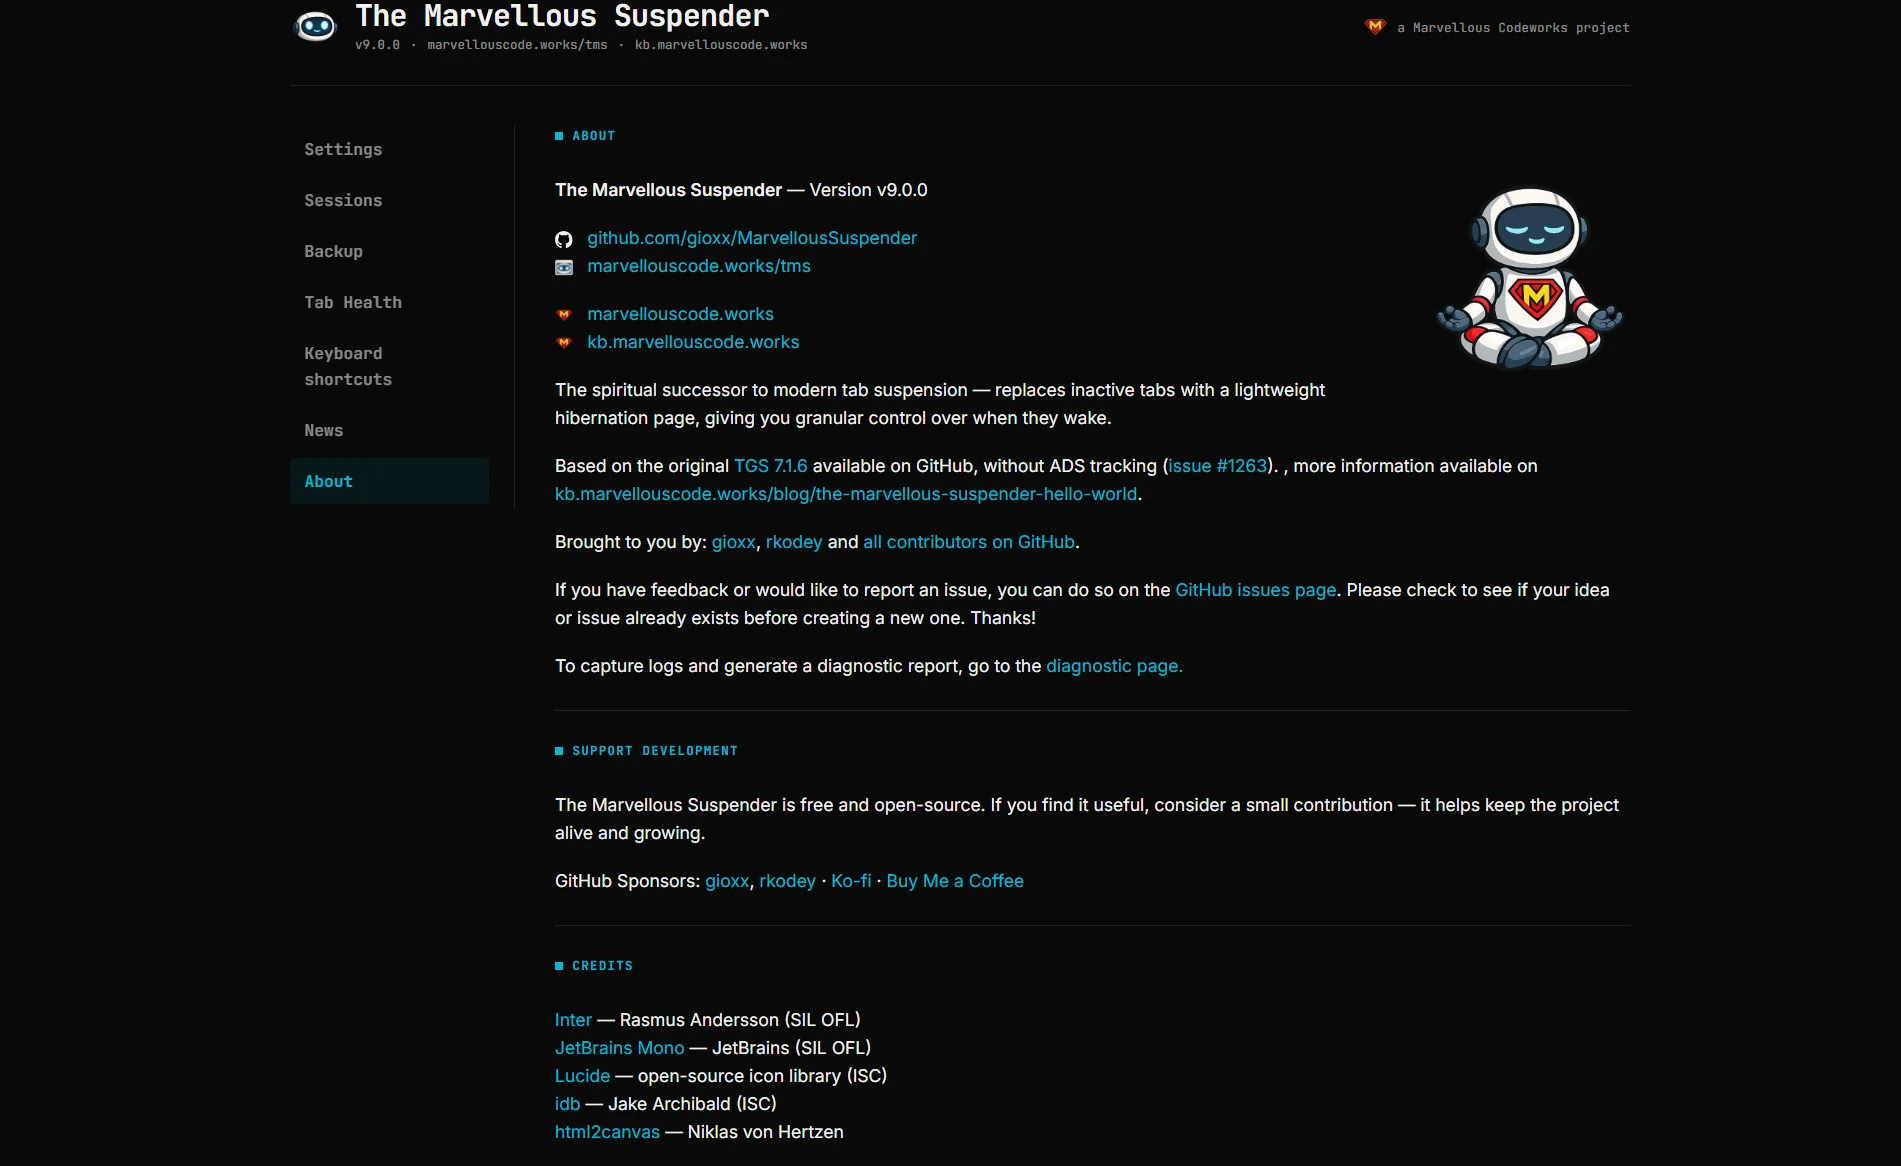
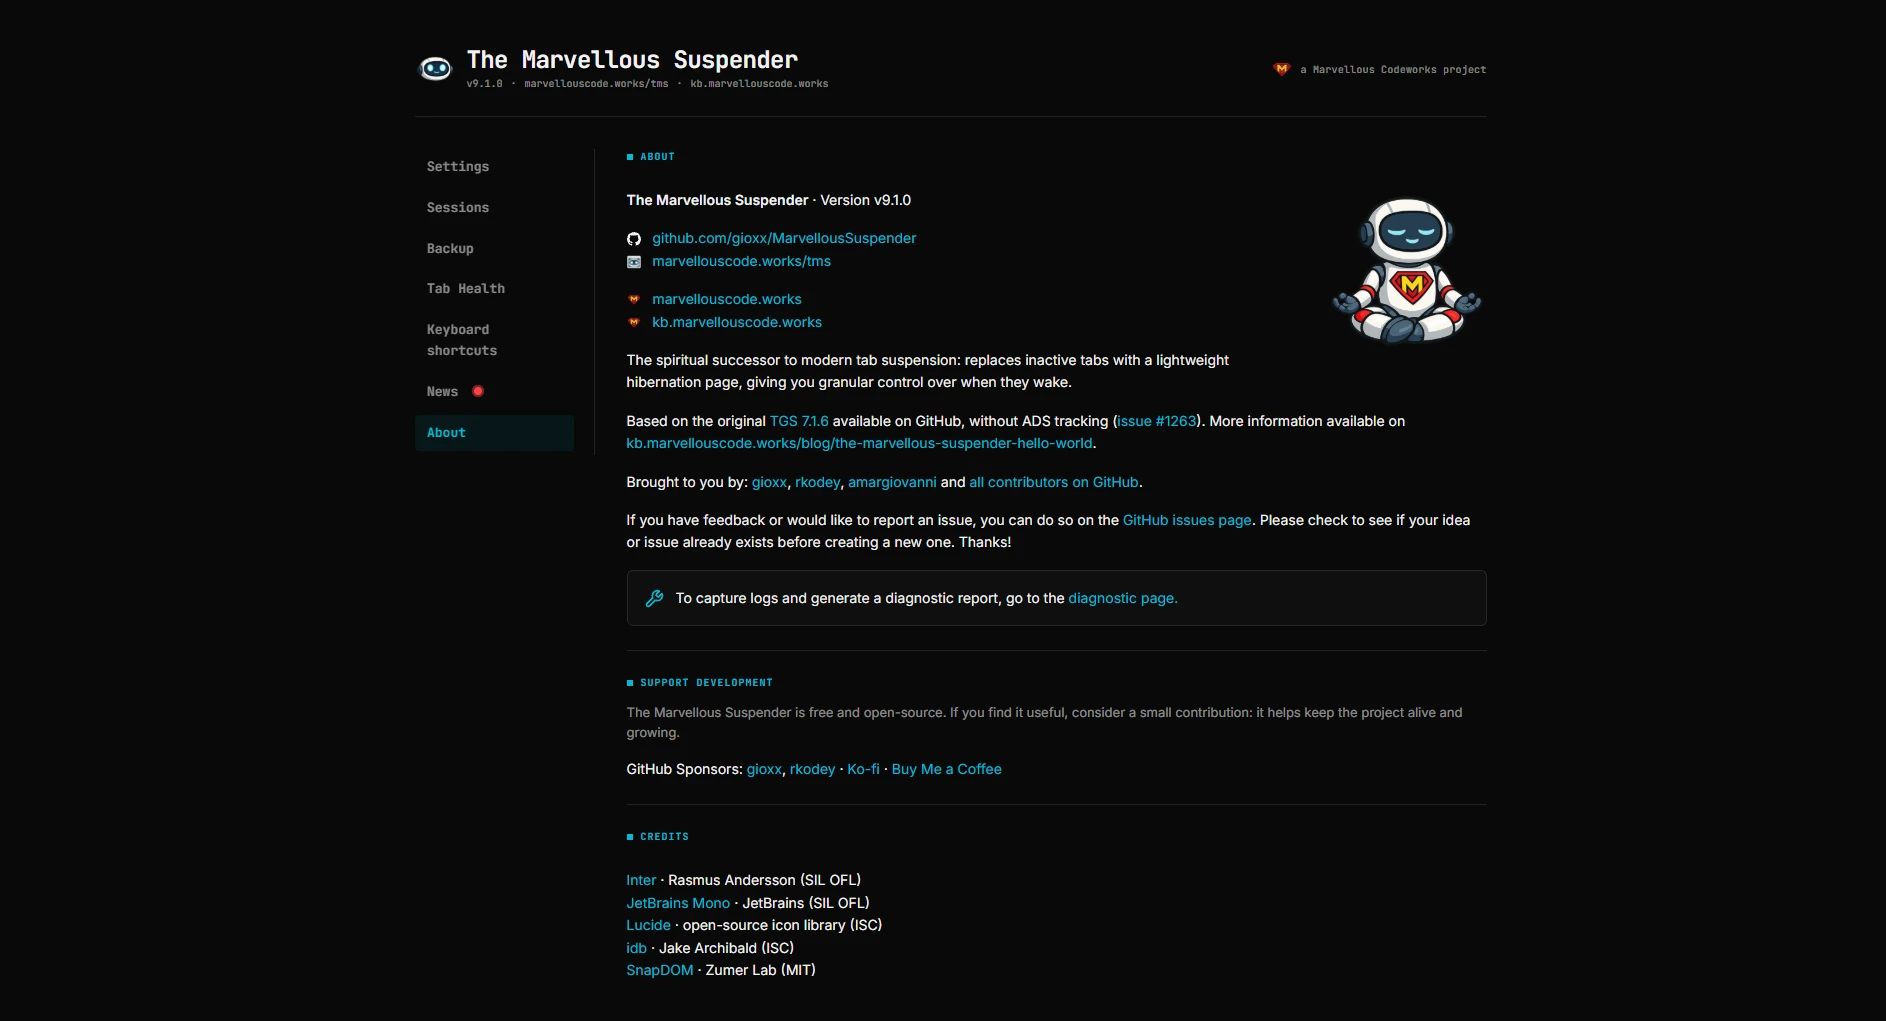
docs(tms): refresh Settings, shortcuts and About screenshots
Captured from the v9.1.0 release in a clean English profile. The old images showed 9.0.0 labels. Also list the toolbar popup command and drop the Italian-language note. Docs re-promoted to stable 9.1.0.

diff --git a/projects/TMS/pages/keyboard-shortcuts.md b/projects/TMS/pages/keyboard-shortcuts.md
@@ -23,6 +23,7 @@ TMS ships with one pre-assigned shortcut. All other commands have no default key
 
 | Command | Default key | Description |
 |---|---|---|
+| Activate the extension ( show popup ) | - | Open the toolbar popup |
 | Suspend/Unsuspend active tab | `Ctrl+Shift+S` | Suspend the active tab, or unsuspend it if already suspended |
 | Pause/Unpause suspension of active tab | - | Toggle the "paused" state for the current tab (excluded from auto-suspend until next reload) |
 | Suspend selected tabs | - | Suspend all tabs currently selected in the tab strip |
@@ -40,9 +41,9 @@ TMS ships with one pre-assigned shortcut. All other commands have no default key
 | Unsuspend all tabs in all windows | - | Unsuspend all tabs across every open window |
 | Go to session manager | - | Open the Session management page directly |
 
-TMS also has its own read-only copy of this list on the **Keyboard shortcuts** page in the sidebar, with a **Change shortcuts** button that jumps straight to `chrome://extensions/shortcuts`. Labels follow your [language setting](./settings.md#language), shown here in Italian:
+TMS also has its own read-only copy of this list on the **Keyboard shortcuts** page in the sidebar, with a **Change shortcuts** button that jumps straight to `chrome://extensions/shortcuts`. Labels follow your [language setting](./settings.md#language):
 
-![The Keyboard shortcuts page, shown here with the language set to Italian](./img/keyboard-shortcuts/01-shortcuts-list.webp)
+![The Keyboard shortcuts page](./img/keyboard-shortcuts/01-shortcuts-list.webp)
 
 *Dark theme:*
 

diff --git a/tms_versioned_docs/version-9.1.0/pages/keyboard-shortcuts.md b/tms_versioned_docs/version-9.1.0/pages/keyboard-shortcuts.md
@@ -23,6 +23,7 @@ TMS ships with one pre-assigned shortcut. All other commands have no default key
 
 | Command | Default key | Description |
 |---|---|---|
+| Activate the extension ( show popup ) | - | Open the toolbar popup |
 | Suspend/Unsuspend active tab | `Ctrl+Shift+S` | Suspend the active tab, or unsuspend it if already suspended |
 | Pause/Unpause suspension of active tab | - | Toggle the "paused" state for the current tab (excluded from auto-suspend until next reload) |
 | Suspend selected tabs | - | Suspend all tabs currently selected in the tab strip |
@@ -40,9 +41,9 @@ TMS ships with one pre-assigned shortcut. All other commands have no default key
 | Unsuspend all tabs in all windows | - | Unsuspend all tabs across every open window |
 | Go to session manager | - | Open the Session management page directly |
 
-TMS also has its own read-only copy of this list on the **Keyboard shortcuts** page in the sidebar, with a **Change shortcuts** button that jumps straight to `chrome://extensions/shortcuts`. Labels follow your [language setting](./settings.md#language), shown here in Italian:
+TMS also has its own read-only copy of this list on the **Keyboard shortcuts** page in the sidebar, with a **Change shortcuts** button that jumps straight to `chrome://extensions/shortcuts`. Labels follow your [language setting](./settings.md#language):
 
-![The Keyboard shortcuts page, shown here with the language set to Italian](./img/keyboard-shortcuts/01-shortcuts-list.webp)
+![The Keyboard shortcuts page](./img/keyboard-shortcuts/01-shortcuts-list.webp)
 
 *Dark theme:*
 
